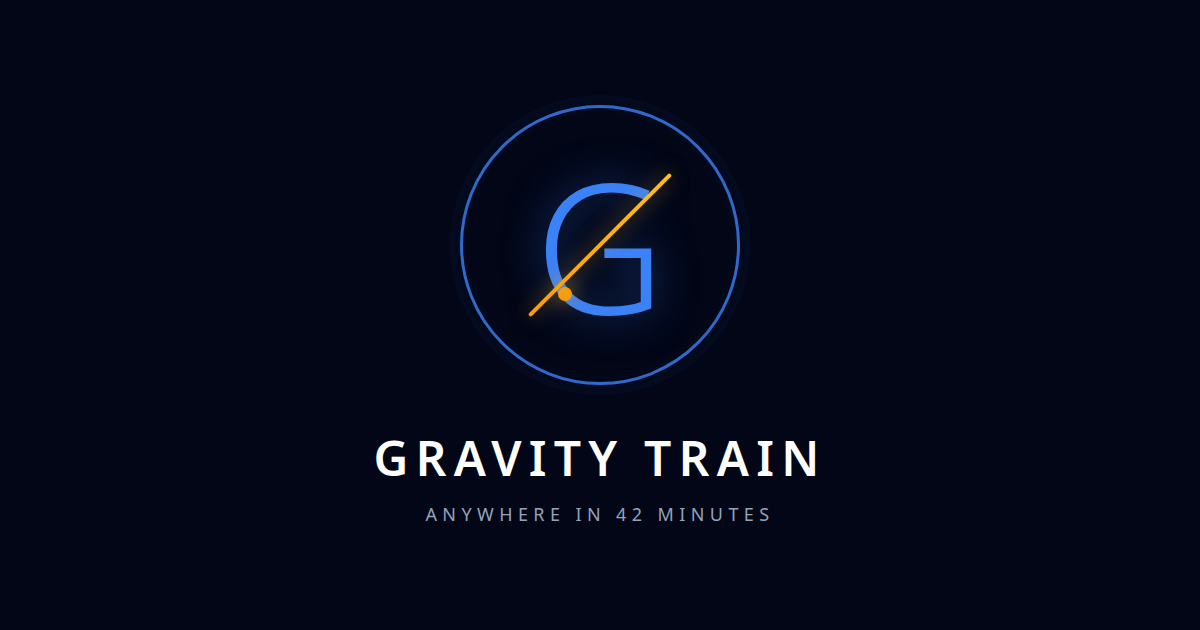
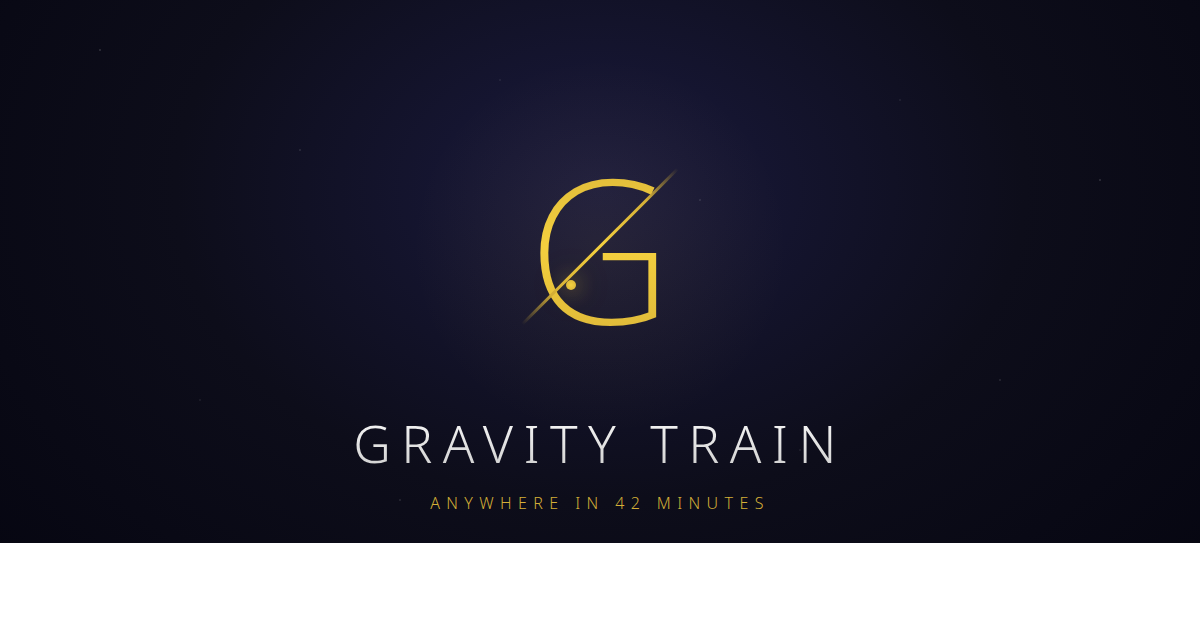
Fix CSP blocking web workers and update og-image
- Add worker-src 'self' blob: to allow Three.js web workers
- Add blob: to script-src for worker scripts
- Update og-image with Foundation-inspired design

diff --git a/client/components/Navigation.tsx b/client/components/Navigation.tsx
@@ -1,7 +1,6 @@
-import { useState } from "react";
 import { Link, useLocation } from "react-router-dom";
 import { Button } from "@/components/ui/button";
-import { ExternalLink, Menu, X } from "lucide-react";
+import { ExternalLink, Activity, Play, Lightbulb, BookOpen, Info } from "lucide-react";
 
 interface NavigationProps {
   minimal?: boolean;
@@ -10,24 +9,18 @@ interface NavigationProps {
 export default function Navigation({ minimal }: NavigationProps) {
   const location = useLocation();
   const currentPath = location.pathname;
-  const [mobileMenuOpen, setMobileMenuOpen] = useState(false);
 
   const linkClass = (path: string) =>
     currentPath === path
       ? "text-blue-400 font-medium"
       : "text-slate-300 hover:text-blue-400 transition-colors";
 
-  const mobileLinkClass = (path: string) =>
-    currentPath === path
-      ? "text-blue-400 font-medium bg-blue-500/10"
-      : "text-slate-300 hover:text-blue-400 hover:bg-blue-500/5";
-
   const navLinks = [
-    { path: "/worm-status", label: "Status", hasIndicator: true },
-    { path: "/simulation", label: "Simulation" },
-    { path: "/concepts", label: "Concepts" },
-    { path: "/history", label: "History" },
-    { path: "/about", label: "About" },
+    { path: "/worm-status", label: "Status", icon: Activity, hasIndicator: true },
+    { path: "/simulation", label: "Sim", icon: Play },
+    { path: "/concepts", label: "Concepts", icon: Lightbulb },
+    { path: "/history", label: "History", icon: BookOpen },
+    { path: "/about", label: "About", icon: Info },
   ];
 
   return (
@@ -66,17 +59,10 @@ export default function Navigation({ minimal }: NavigationProps) {
                   </Link>
                 ))}
               </div>
-              <button
-                onClick={() => setMobileMenuOpen(true)}
-                className="md:hidden p-2 bg-blue-500 text-white rounded"
-                aria-label="Open menu"
-              >
-                <Menu className="w-6 h-6" />
-              </button>
               <a href="https://www.naatak.org/portfolio/2026-hole/" target="_blank" rel="noopener noreferrer">
                 <Button className="bg-blue-500/20 border border-blue-400/40 text-blue-300 hover:bg-blue-500/30 font-mono text-xs sm:text-sm px-2 sm:px-4">
                   <span className="hidden sm:inline">Book Tickets</span>
-                  <span className="sm:hidden">Book</span>
+                  <span className="sm:hidden">Tickets</span>
                   <ExternalLink className="ml-1 sm:ml-2 w-4 h-4" />
                 </Button>
               </a>
@@ -86,56 +72,35 @@ export default function Navigation({ minimal }: NavigationProps) {
       </nav>
 
       {!minimal && (
-        <>
-          <div
-            className={`fixed inset-0 bg-black/60 backdrop-blur-sm z-50 transition-opacity duration-300 md:hidden ${
-              mobileMenuOpen ? "opacity-100" : "opacity-0 pointer-events-none"
-            }`}
-            onClick={() => setMobileMenuOpen(false)}
-          />
-          <div
-            className={`fixed top-0 right-0 h-full w-72 bg-slate-950 border-l border-blue-500/20 z-50 transform transition-transform duration-300 ease-out md:hidden ${
-              mobileMenuOpen ? "translate-x-0" : "translate-x-full"
-            }`}
-          >
-            <div className="flex items-center justify-between p-6 border-b border-blue-500/20">
-              <span className="text-lg font-light text-white">Menu</span>
-              <button
-                onClick={() => setMobileMenuOpen(false)}
-                className="p-2 text-slate-300 hover:text-blue-400 transition-colors"
-                aria-label="Close menu"
-              >
-                <X className="w-6 h-6" />
-              </button>
-            </div>
-            <div className="flex flex-col py-4">
-              {navLinks.map(({ path, label, hasIndicator }) => (
+        <nav className="fixed bottom-0 left-0 right-0 bg-slate-950/95 backdrop-blur-sm border-t border-blue-500/20 z-50 md:hidden safe-area-bottom">
+          <div className="flex justify-around items-center py-2 px-1">
+            {navLinks.map(({ path, label, icon: Icon, hasIndicator }) => {
+              const isActive = currentPath === path;
+              return (
                 <Link
                   key={path}
                   to={path}
-                  onClick={() => setMobileMenuOpen(false)}
-                  className={`${mobileLinkClass(path)} flex items-center gap-3 px-6 py-4 font-mono text-sm transition-colors`}
+                  className={`flex flex-col items-center gap-1 px-3 py-2 rounded-lg transition-colors min-w-[60px] ${
+                    isActive
+                      ? "text-blue-400 bg-blue-500/10"
+                      : "text-slate-400 active:bg-slate-800"
+                  }`}
                 >
-                  {hasIndicator && (
-                    <span className="relative flex h-2 w-2">
-                      <span className="animate-ping absolute inline-flex h-full w-full rounded-full bg-blue-400 opacity-75"></span>
-                      <span className="relative inline-flex rounded-full h-2 w-2 bg-blue-500"></span>
-                    </span>
-                  )}
-                  {label}
+                  <div className="relative">
+                    <Icon className="w-5 h-5" />
+                    {hasIndicator && (
+                      <span className="absolute -top-1 -right-1 flex h-2 w-2">
+                        <span className="animate-ping absolute inline-flex h-full w-full rounded-full bg-blue-400 opacity-75"></span>
+                        <span className="relative inline-flex rounded-full h-2 w-2 bg-blue-500"></span>
+                      </span>
+                    )}
+                  </div>
+                  <span className="text-[10px] font-mono">{label}</span>
                 </Link>
-              ))}
-              <div className="px-6 pt-6">
-                <a href="https://www.naatak.org/portfolio/2026-hole/" target="_blank" rel="noopener noreferrer" className="block">
-                  <Button className="w-full bg-blue-500/20 border border-blue-400/40 text-blue-300 hover:bg-blue-500/30 font-mono">
-                    Book Tickets
-                    <ExternalLink className="ml-2 w-4 h-4" />
-                  </Button>
-                </a>
-              </div>
-            </div>
+              );
+            })}
           </div>
-        </>
+        </nav>
       )}
     </>
   );

diff --git a/index.html b/index.html
@@ -7,7 +7,7 @@
     <meta name="description" content="Interactive educational experience about gravity trains - a theoretical transportation concept using Earth's gravity to travel through tunnels. Part of Naatak's theatrical production 'Hole' (2026)." />
 
     <!-- Security & Trust Headers -->
-    <meta http-equiv="Content-Security-Policy" content="default-src 'self'; script-src 'self' 'unsafe-inline' 'unsafe-eval'; style-src 'self' 'unsafe-inline'; img-src 'self' data: https:; connect-src 'self' https:; font-src 'self'; frame-ancestors 'self';" />
+    <meta http-equiv="Content-Security-Policy" content="default-src 'self'; script-src 'self' 'unsafe-inline' 'unsafe-eval' blob:; style-src 'self' 'unsafe-inline'; img-src 'self' data: https:; connect-src 'self' https:; font-src 'self'; worker-src 'self' blob:; frame-ancestors 'self';" />
     <meta http-equiv="X-Content-Type-Options" content="nosniff" />
     <meta name="referrer" content="strict-origin-when-cross-origin" />
 

diff --git a/client/pages/NotFound.tsx b/client/pages/NotFound.tsx
@@ -11,7 +11,7 @@ export default function NotFound() {
   }, [location.pathname]);
 
   return (
-    <div className="min-h-screen bg-slate-950 flex items-center justify-center">
+    <div className="min-h-screen bg-slate-950 flex items-center justify-center pb-mobile-nav">
       <div className="text-center px-6">
         <div className="flex justify-center mb-6">
           <img src="/logo-icon.png" alt="Gravity Train" className="w-24 h-24" />

diff --git a/client/global.css b/client/global.css
@@ -127,6 +127,20 @@
   .animate-scale-in {
     animation: scaleIn 0.3s ease-out forwards;
   }
+
+  .safe-area-bottom {
+    padding-bottom: env(safe-area-inset-bottom, 0);
+  }
+
+  .pb-mobile-nav {
+    padding-bottom: 4.5rem;
+  }
+
+  @media (min-width: 768px) {
+    .pb-mobile-nav {
+      padding-bottom: 0;
+    }
+  }
 }
 
 @keyframes fadeIn {

diff --git a/client/pages/Simulation.tsx b/client/pages/Simulation.tsx
@@ -152,7 +152,7 @@ export default function Simulation() {
   const seconds = Math.floor(currentTime % 60);
 
   return (
-    <div className="min-h-screen bg-slate-950">
+    <div className="min-h-screen bg-slate-950 pb-mobile-nav">
       <Navigation />
 
       <div className="max-w-7xl mx-auto px-6 py-12">

diff --git a/client/pages/History.tsx b/client/pages/History.tsx
@@ -7,7 +7,7 @@ import Footer from "@/components/Footer";
 
 export default function History() {
   return (
-    <div className="min-h-screen bg-slate-950">
+    <div className="min-h-screen bg-slate-950 pb-mobile-nav">
       <Navigation />
 
       {/* Hero Section */}

diff --git a/client/pages/About.tsx b/client/pages/About.tsx
@@ -7,7 +7,7 @@ import Footer from "@/components/Footer";
 
 export default function About() {
   return (
-    <div className="min-h-screen bg-slate-950">
+    <div className="min-h-screen bg-slate-950 pb-mobile-nav">
       <Navigation />
 
       {/* Hero Section */}

diff --git a/client/pages/Index.tsx b/client/pages/Index.tsx
@@ -97,7 +97,7 @@ function HeroEarthAnimation() {
 
 export default function Index() {
   return (
-    <div className="min-h-screen bg-slate-950">
+    <div className="min-h-screen bg-slate-950 pb-mobile-nav">
       <Navigation />
 
       {/* Hero Section */}
